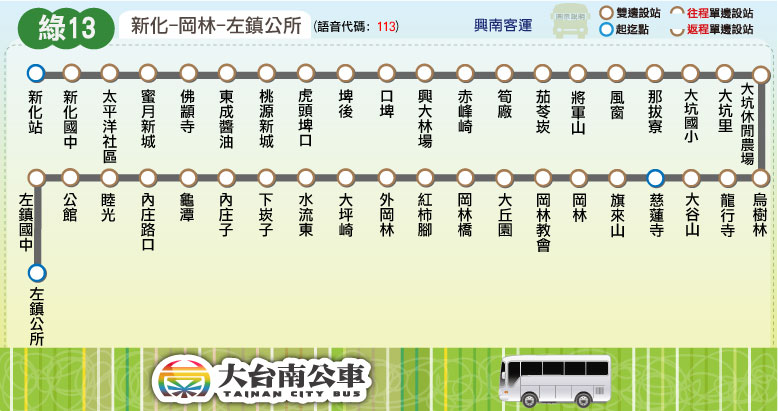
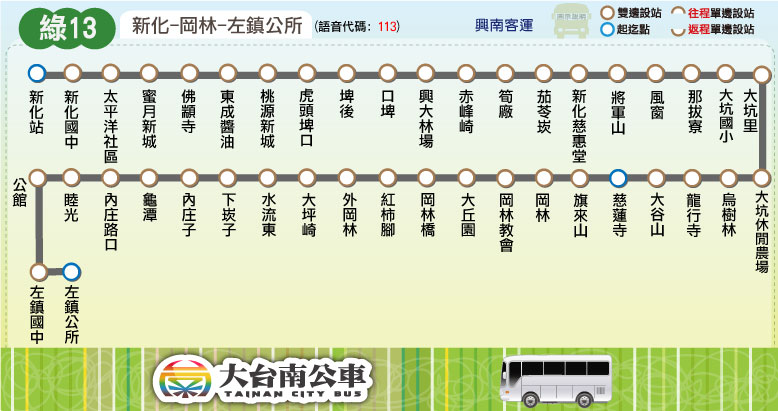
新增站位：棕1(增「新圍」)、綠13(增「新化慈惠堂」)、7408(增「麗園社區」)

diff --git a/route/fare_and_time/highway_bus_7408.js b/route/fare_and_time/highway_bus_7408.js
@@ -2,7 +2,7 @@ highway_bus_7408_interval_name = ["新營","埤寮","溪州寮","鹽水<br />分
 highway_bus_7408_interval_stop = [
 ["新營站","圓環","三民路口","南新國中","新營高中","民治市政中心","新營高工","中正世家","電力公司","許丑"], // 新營
 ["埤寮","護鎮活動中心"], // 埤寮
-["溪州寮","南榮科技大學"], // 溪州寮
+["溪州寮","麗園社區","南榮科技大學"], // 溪州寮
 ["鹽水分駐所","鹽水國中"], // 鹽水分駐所
 ["岸內","義稠里","牛稠仔"], // 牛稠仔
 ["義竹社區"], // 義竹社區

diff --git a/route/fare_and_time/brown_1.js b/route/fare_and_time/brown_1.js
@@ -14,7 +14,7 @@ brown_1_interval_stop = [ // 2016.11.20 checked
 ["北紅茄萣"], // 北紅茄萣
 ["新渡子頭"], // 新渡子頭
 ["渡子頭"], // 渡子頭
-["南鯤鯓"], // 南鯤鯓
+["新圍","南鯤鯓"], // 南鯤鯓
 ["橋北","永春","雙春"], // 雙春
 ["雙春濱海遊憩區"] // 雙春濱海遊憩區
 ];
